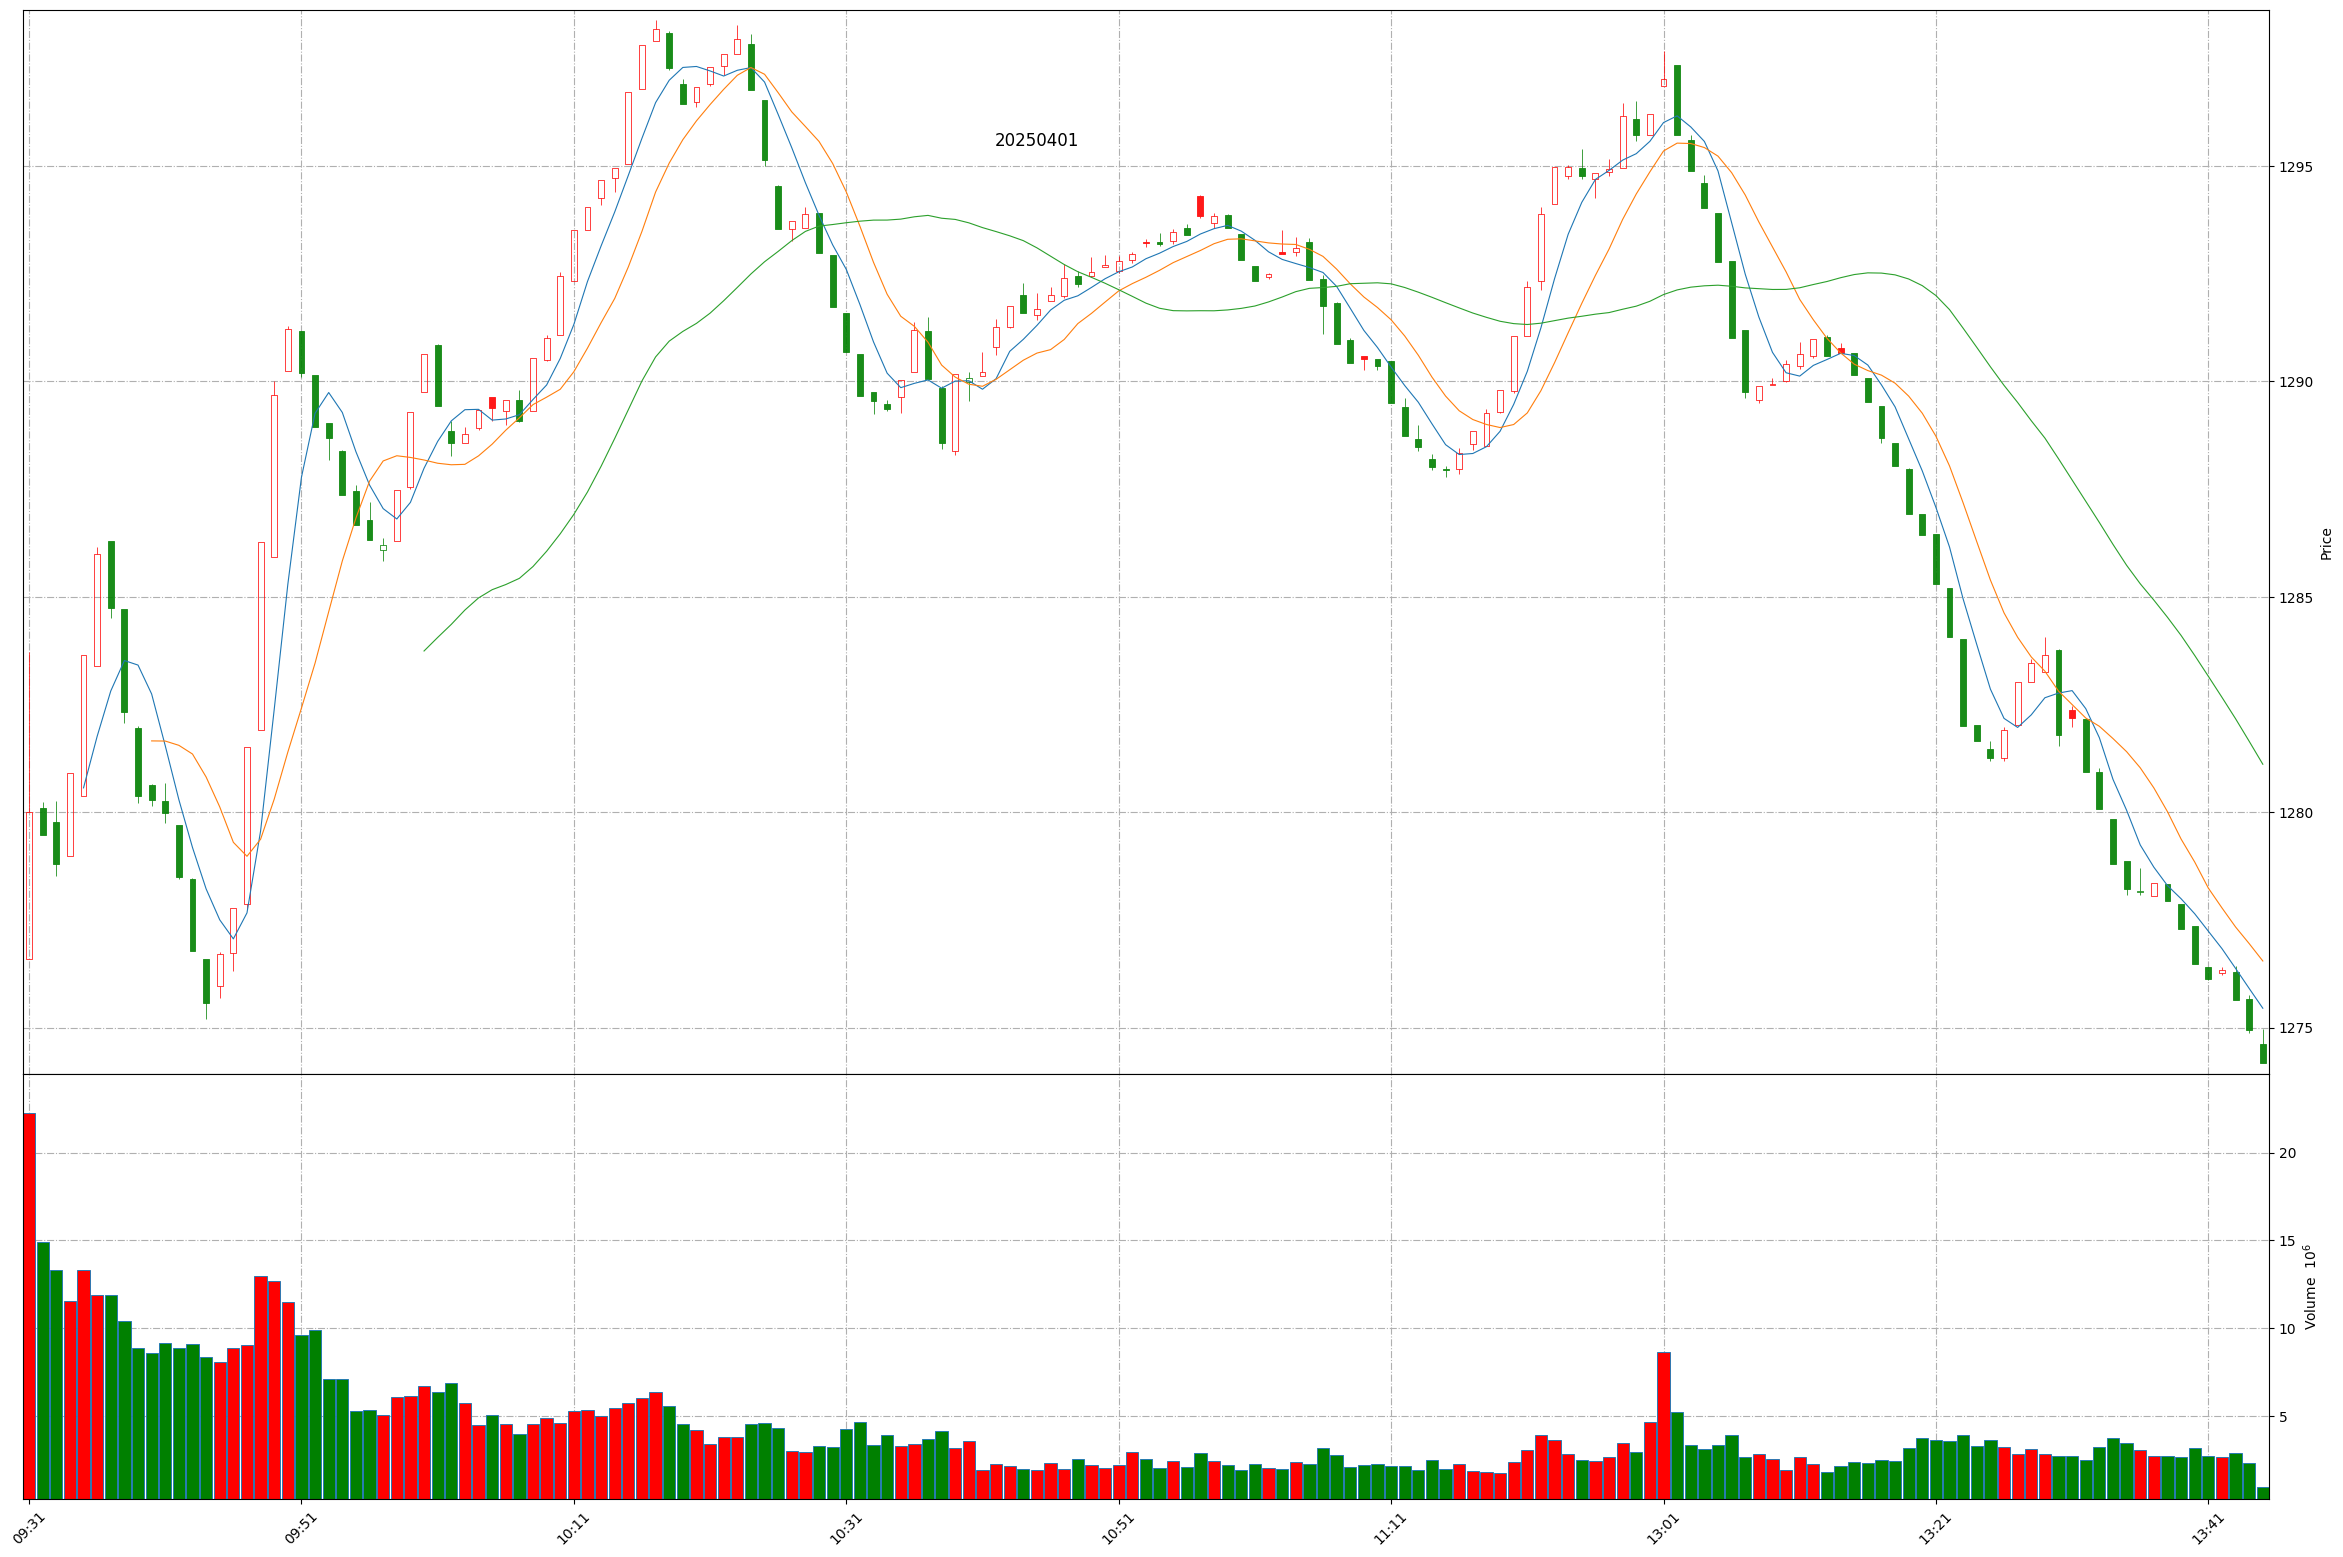
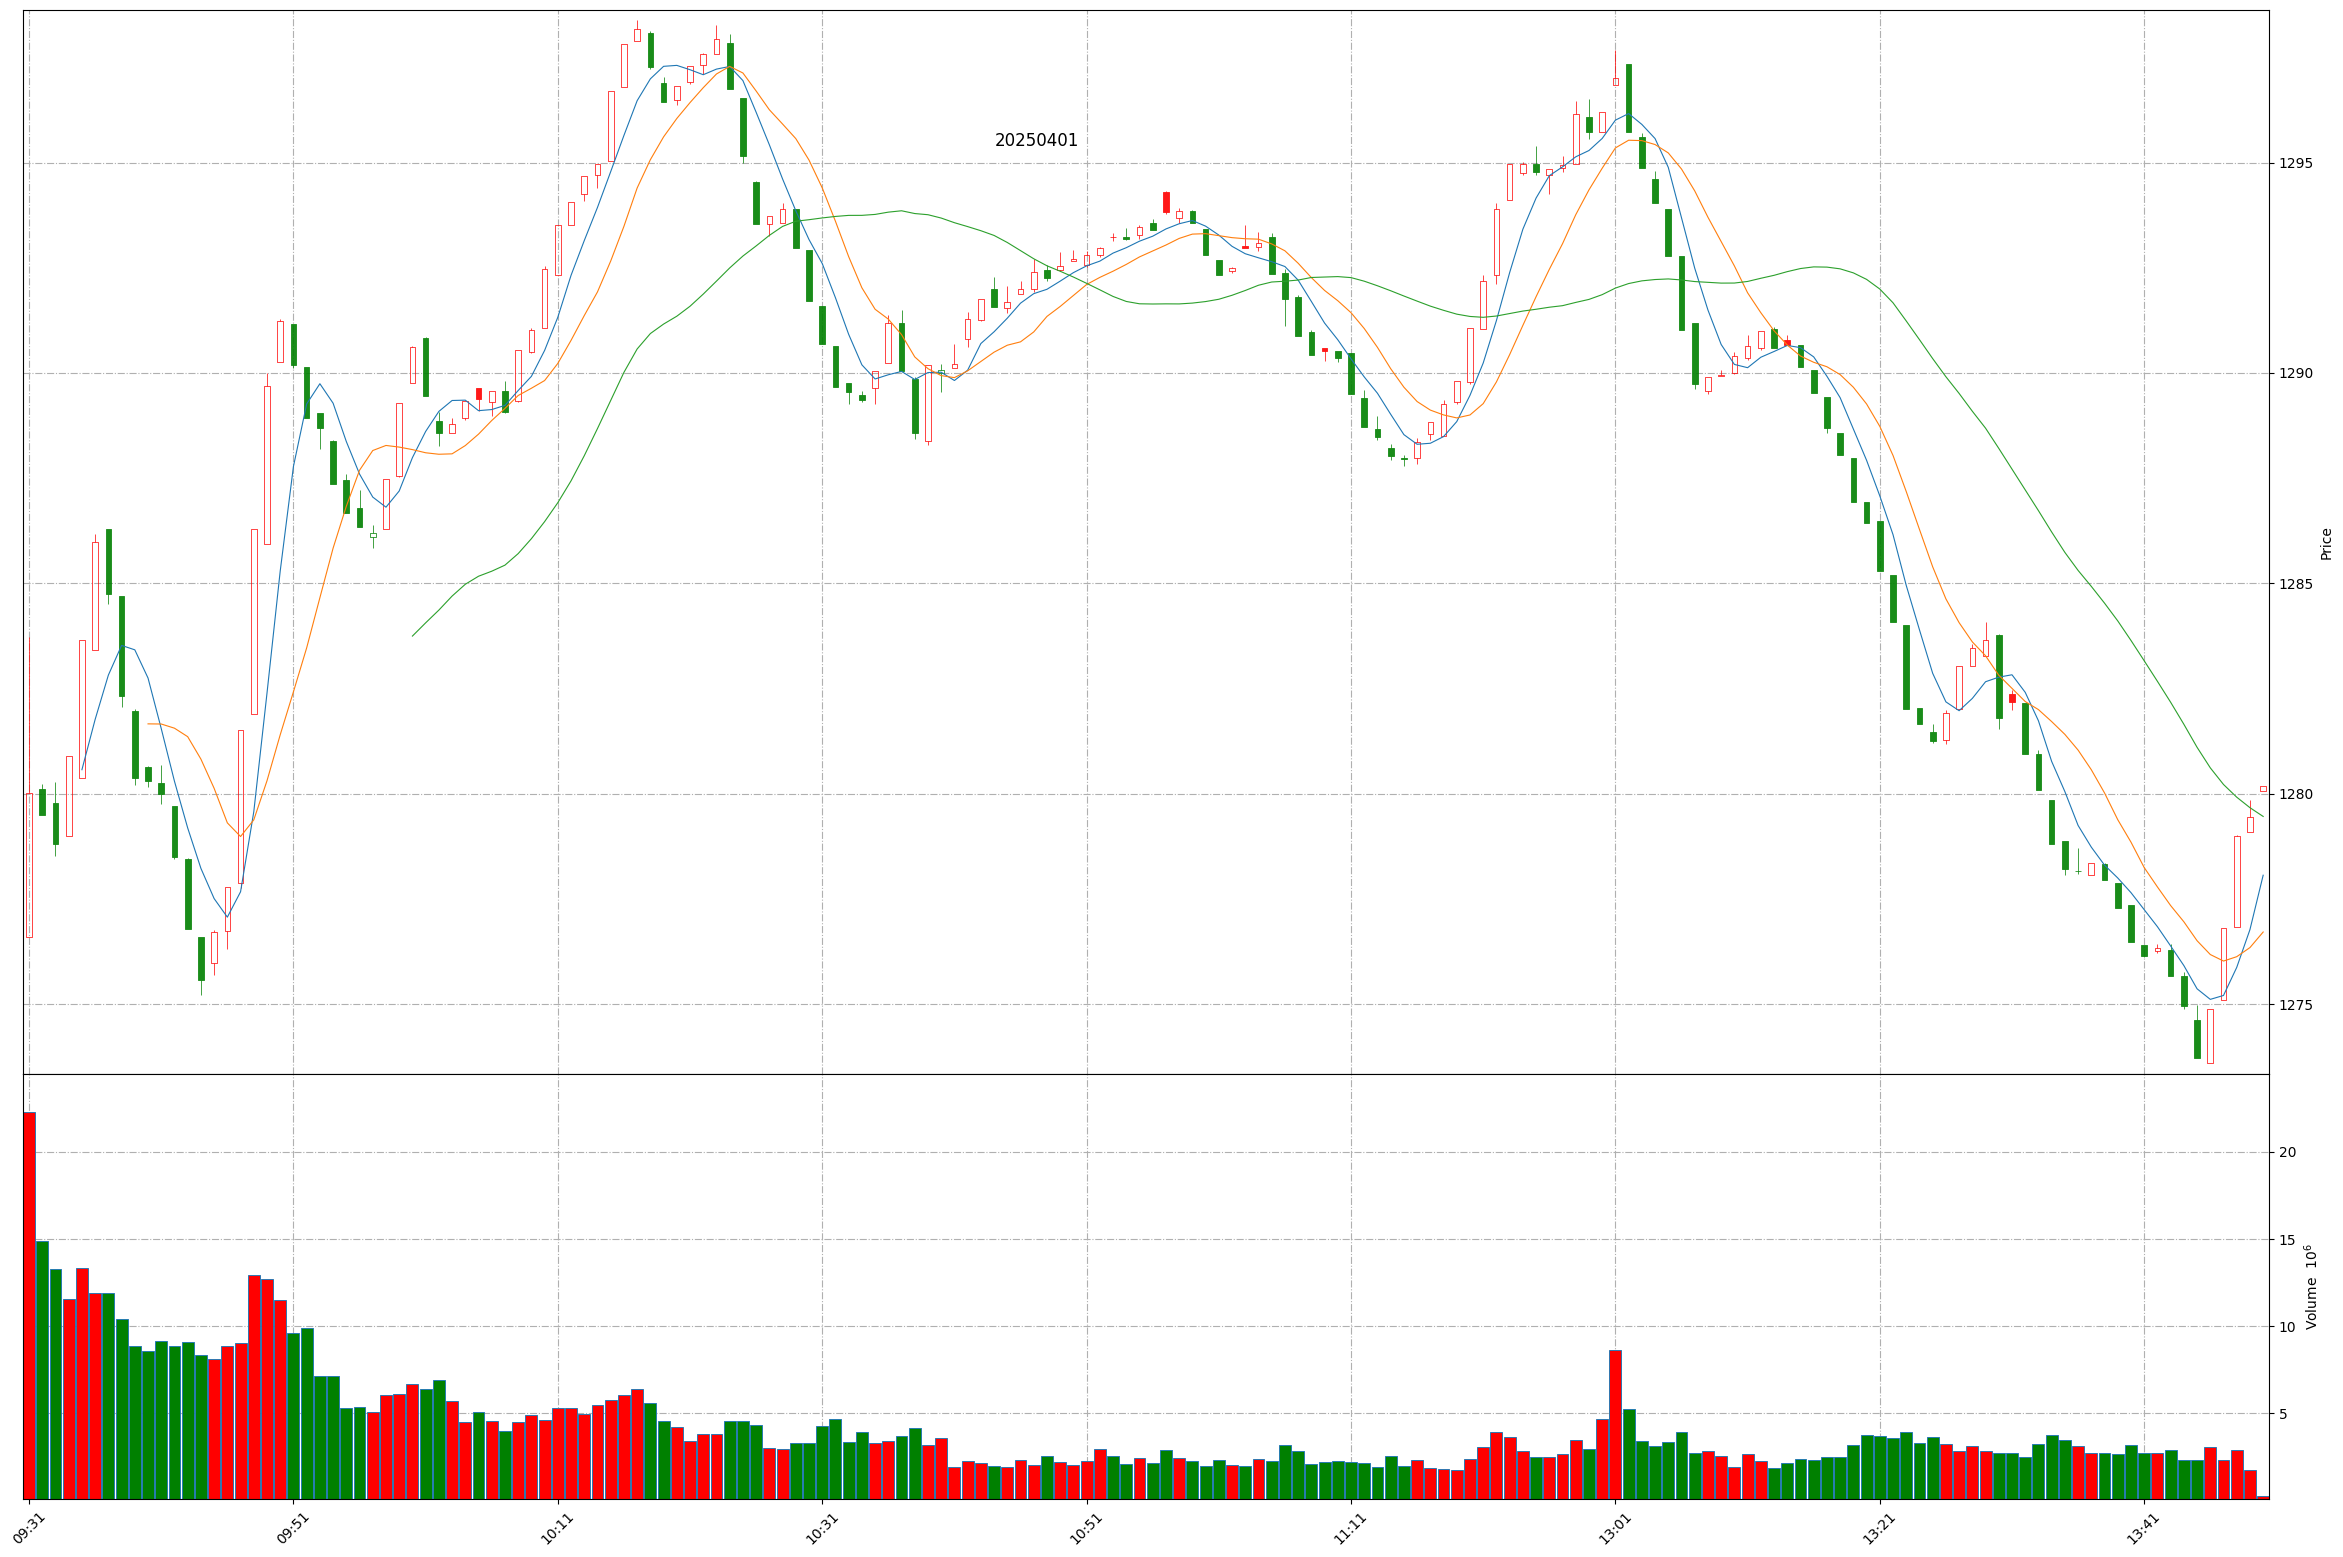
Github action update at 2025-04-01 13:49:24.

diff --git a/README.md b/README.md
@@ -1,11 +1,11 @@
 
 # Daily-A-share-market-quotes 每日 A 股指数（5min 更新）- 20250401
 
-### 上证指数 20250401 13:44
+### 上证指数 20250401 13:49
 ![](./fig/2025/4/20250401-sh000001.png)
 
-### 深证成指 20250401 13:44
+### 深证成指 20250401 13:49
 ![](./fig/2025/4/20250401-sz399001.png)
 
-### 北证50 20250401 13:44
+### 北证50 20250401 13:49
 ![](./fig/2025/4/20250401-bj899050.png)
